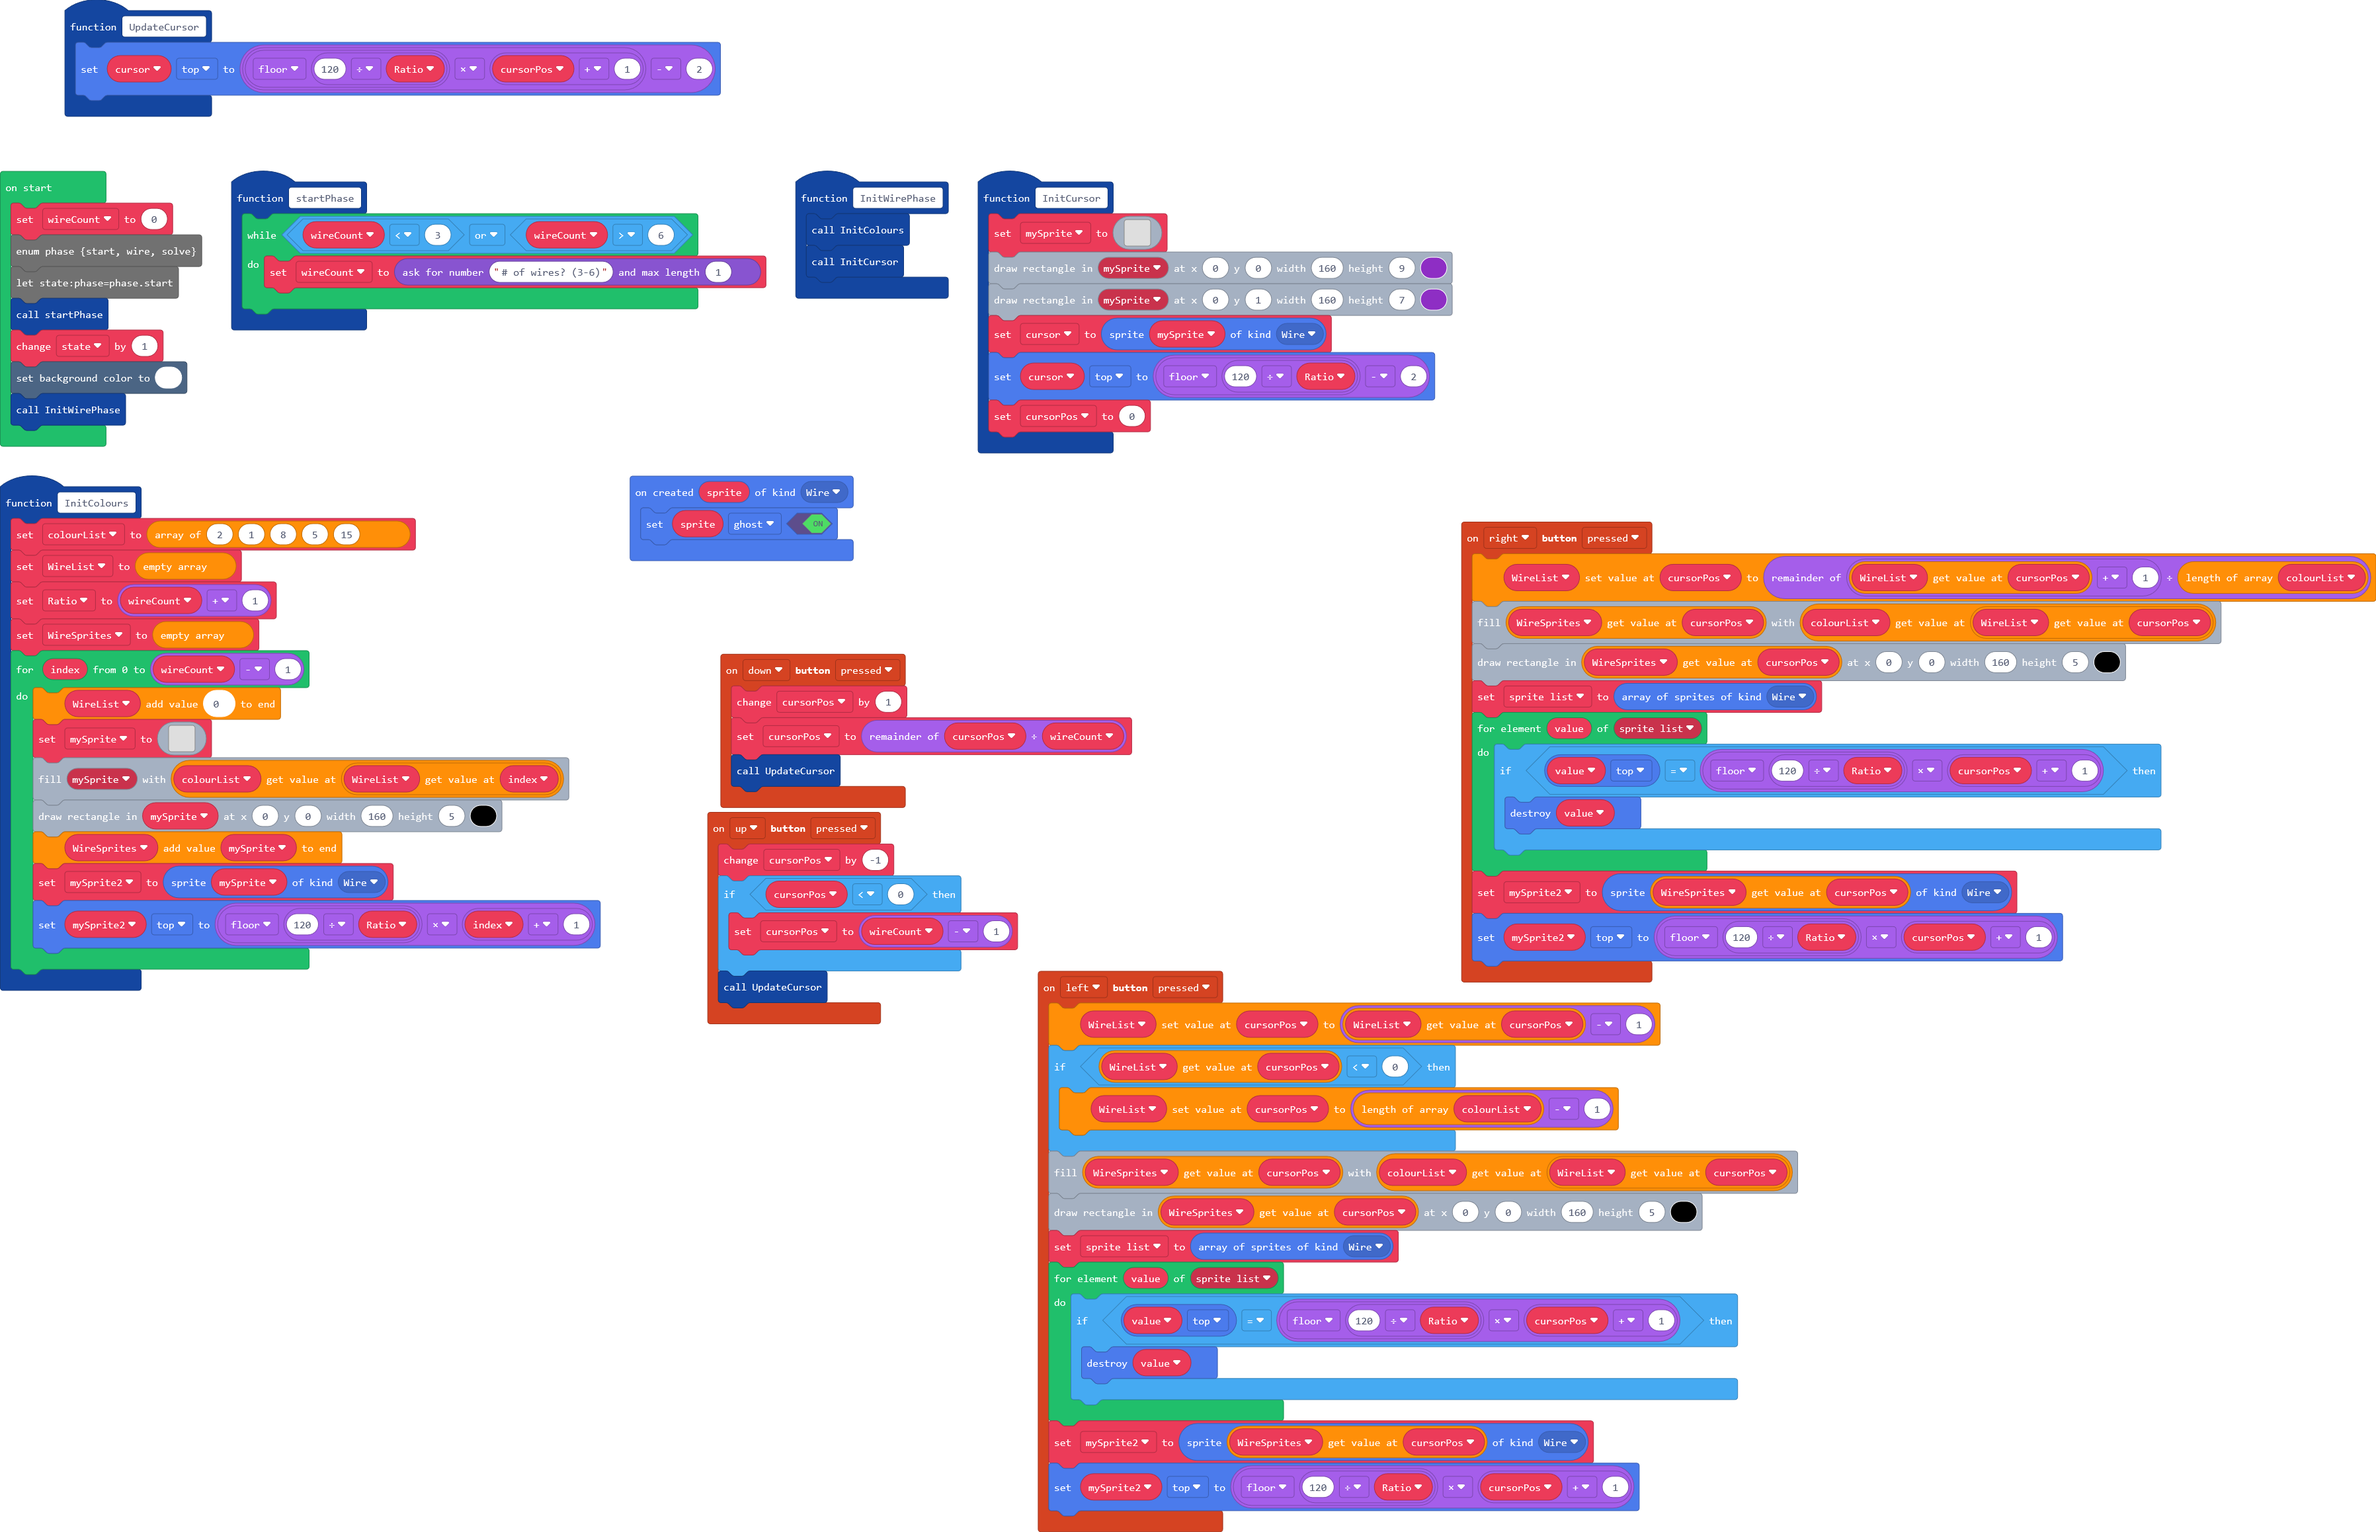
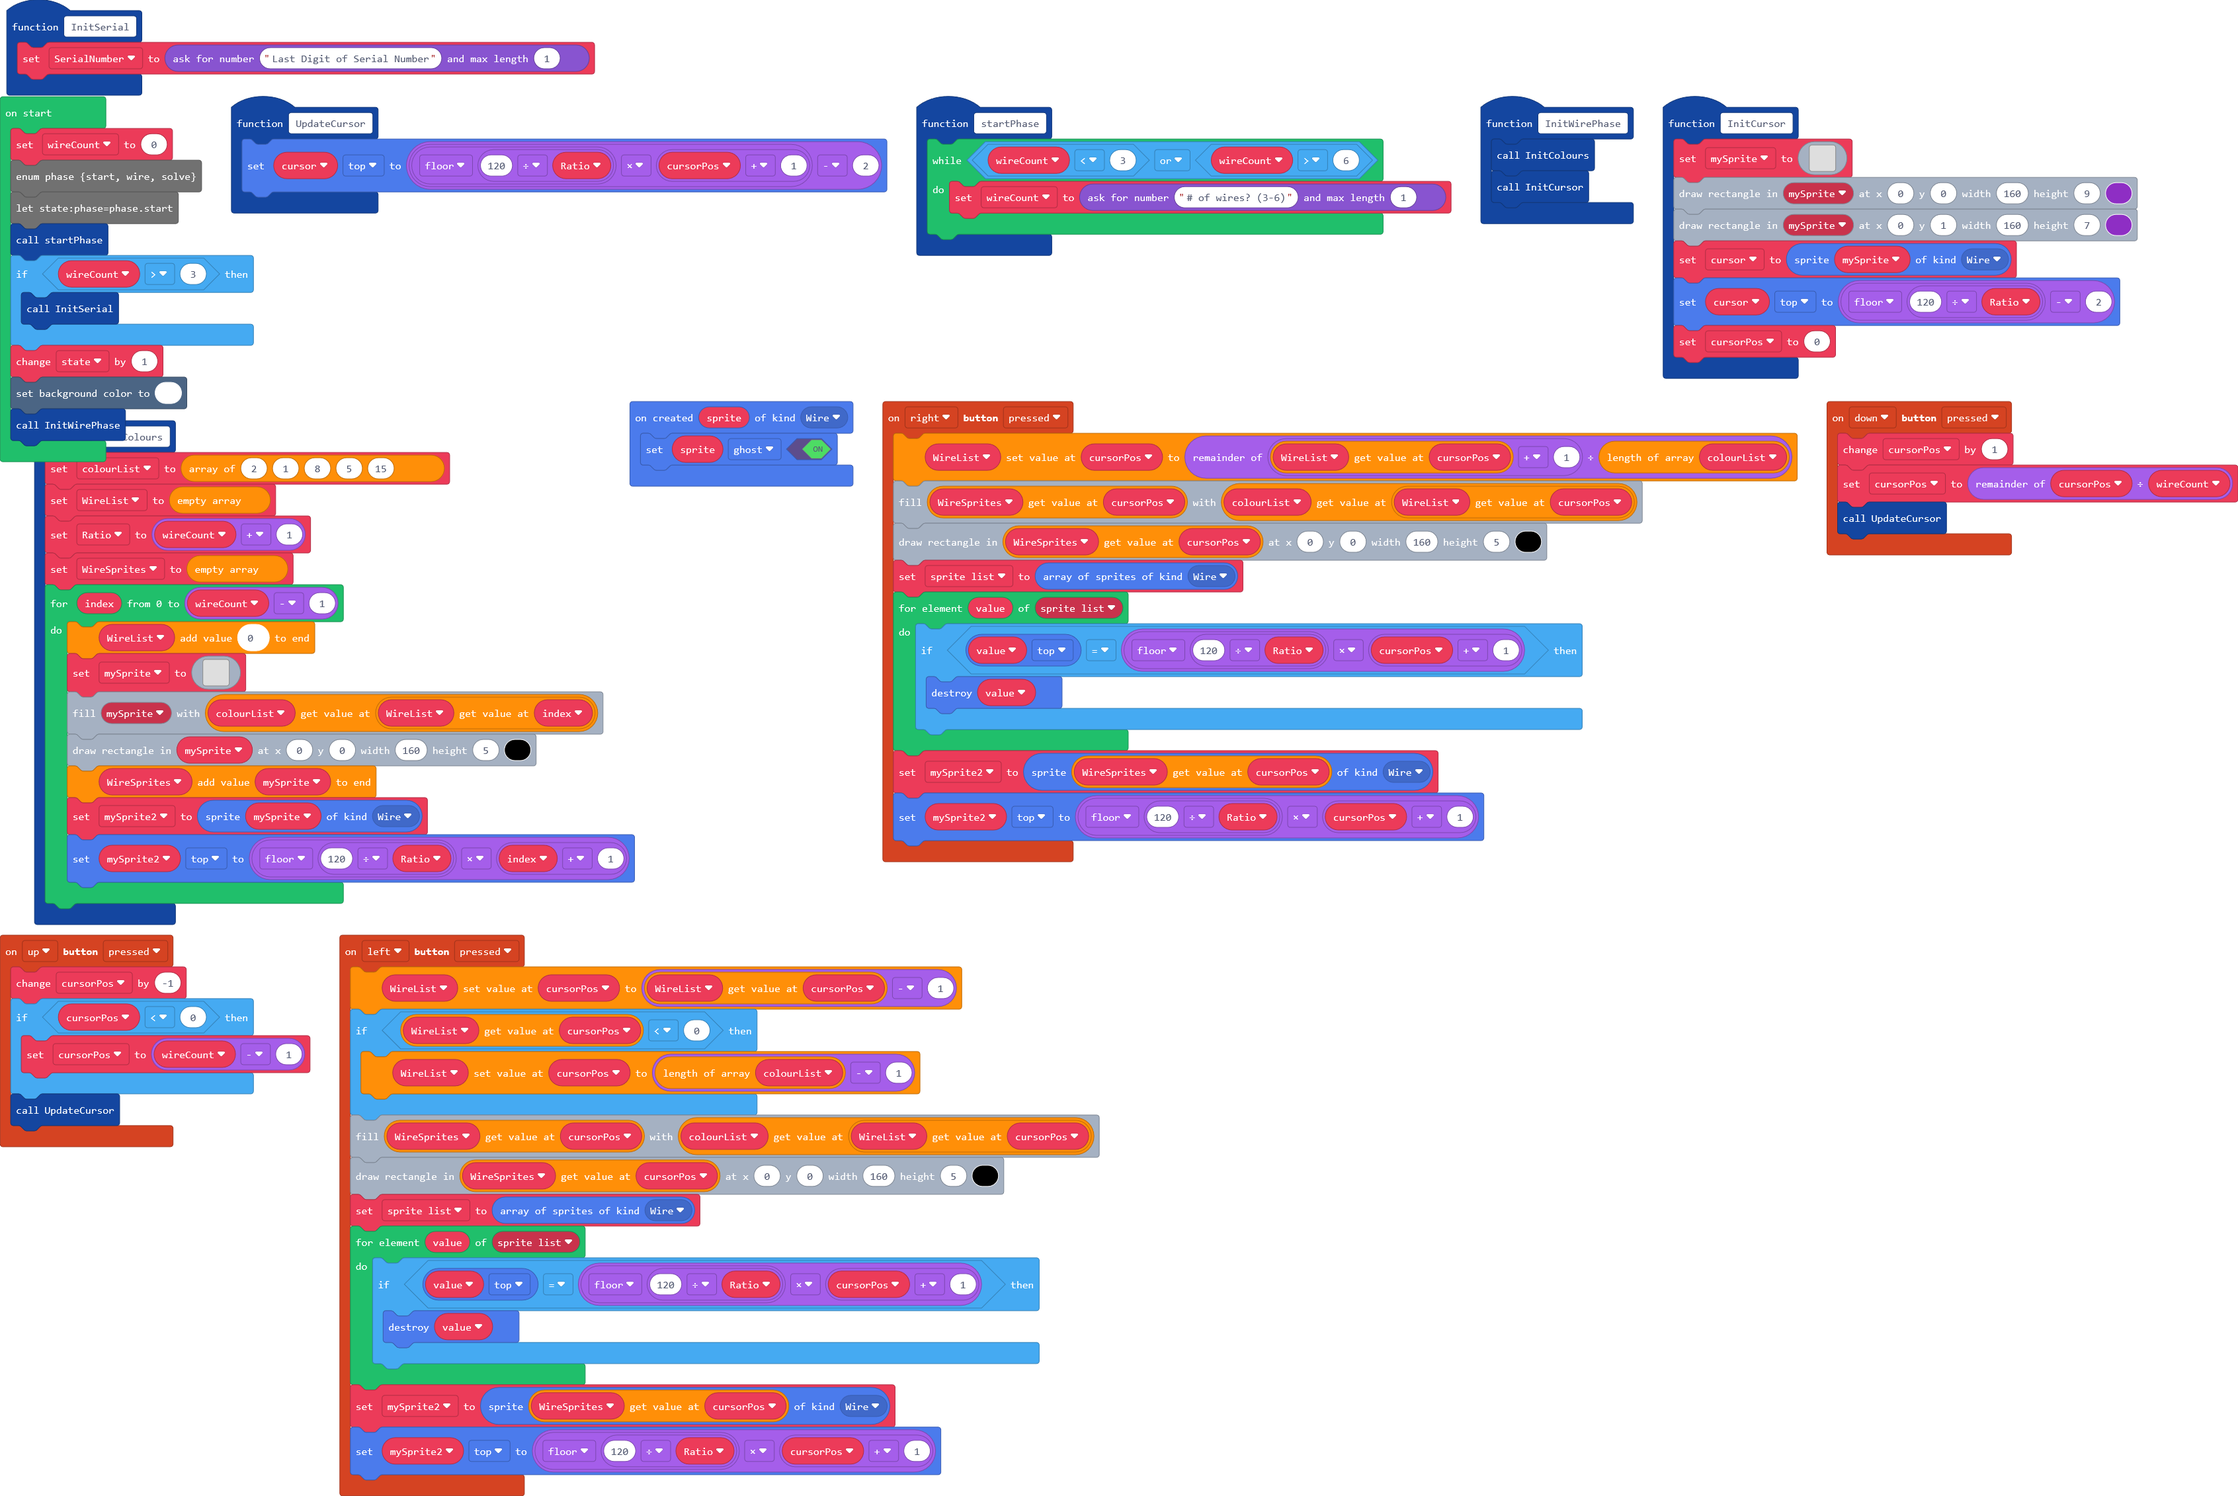
Added Serial Number Ask

diff --git a/main.ts b/main.ts
@@ -4,6 +4,9 @@ namespace SpriteKind {
 function UpdateCursor () {
     cursor.top = Math.floor(120 / Ratio) * (cursorPos + 1) - 2
 }
+function InitSerial () {
+    SerialNumber = game.askForNumber("Last Digit of Serial Number", 1)
+}
 controller.left.onEvent(ControllerButtonEvent.Pressed, function () {
     WireList[cursorPos] = WireList[cursorPos] - 1
     if (WireList[cursorPos] < 0) {
@@ -102,6 +105,7 @@ let sprite_list: Sprite[] = []
 let WireSprites: Image[] = []
 let colourList: number[] = []
 let WireList: number[] = []
+let SerialNumber = 0
 let cursorPos = 0
 let Ratio = 0
 let cursor: Sprite = null
@@ -110,6 +114,9 @@ wireCount = 0
 enum phase {start, wire, solve}
 let state:phase=phase.start
 startPhase()
+if (wireCount > 3) {
+    InitSerial()
+}
 state += 1
 scene.setBackgroundColor(1)
 InitWirePhase()
